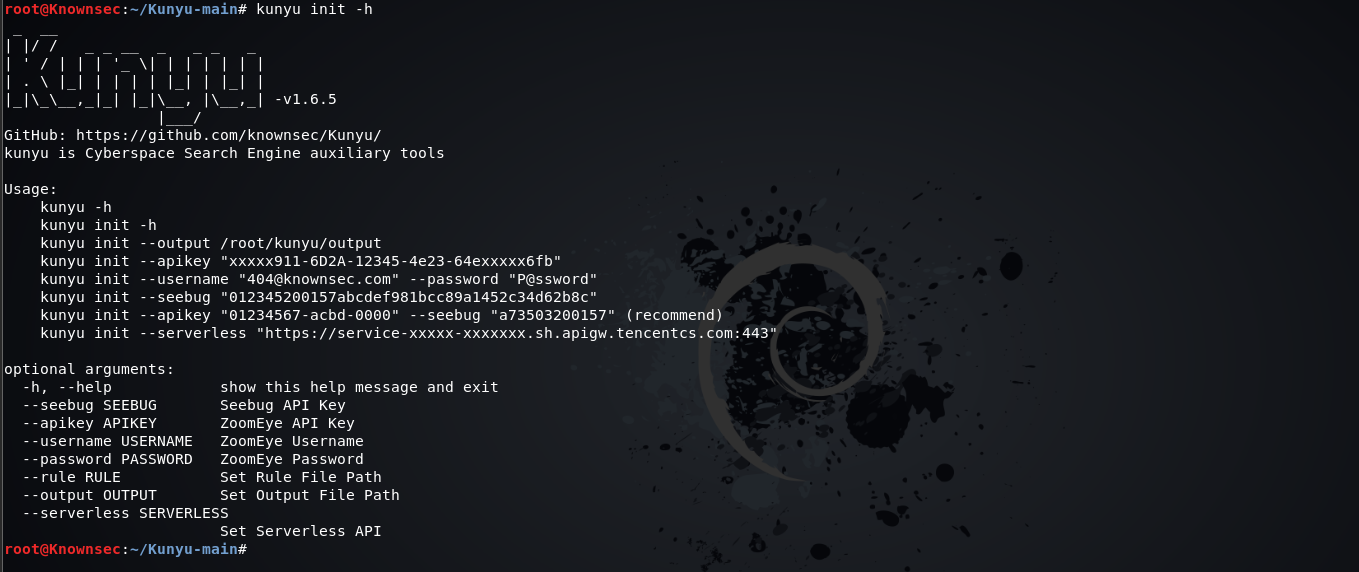
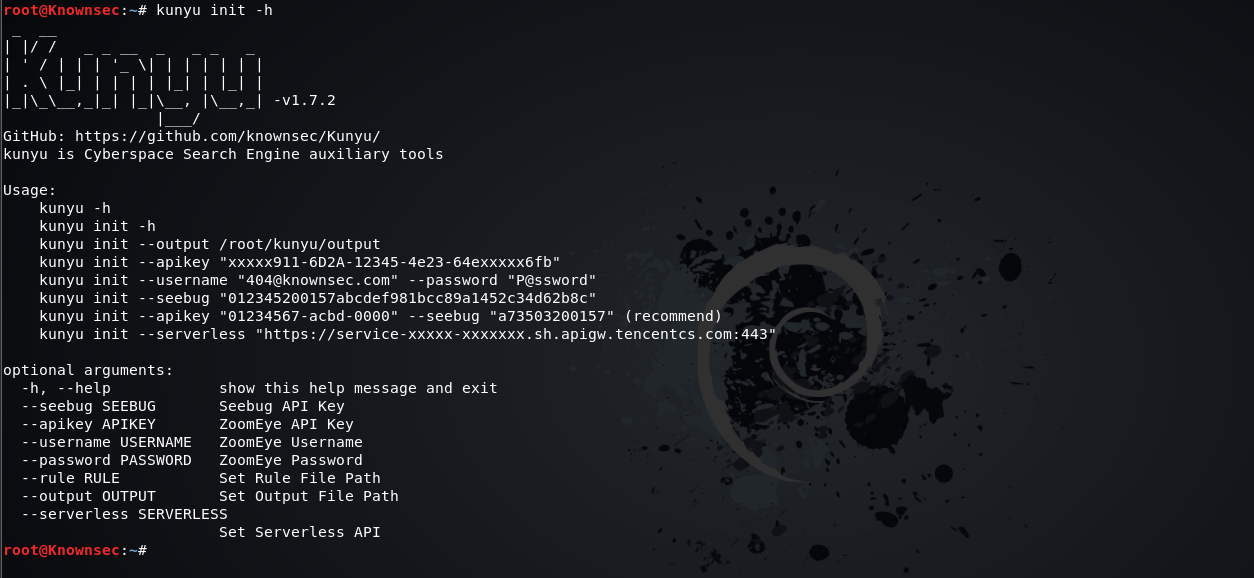
Kunyu Update Version 1.7.2

diff --git a/kunyu/core/zoomeye.py b/kunyu/core/zoomeye.py
@@ -199,6 +199,7 @@ class ZoomEye:
         Seebug <query>                            Search Seebug vulnerability information
         set <option>                              Set Global arguments values
         view/views <ID>                           Look over banner row data information
+        Cscan <IP>/<Port>                         Scans port information about cobaltStrike
         PupilSearch <URL>/<ID>                    Example Query sensitive interfaces and information
         Pocsuite3                                 Invoke the pocsuite component
         ExportPath                                Returns the path of the output file
@@ -210,7 +211,7 @@ class ZoomEye:
 
     # ZoomEye Command List
     Command_Info = ["help", "info", "set", "Seebug", "SearchWeb", "SearchHost", "SearchIcon", "HostCrash",
-                    "SearchBatch", "SearchCert", "SearchDomain", "EncodeHash", "Pocsuite3", "ExportPath",
+                    "SearchBatch", "SearchCert", "SearchDomain", "EncodeHash", "Pocsuite3", "ExportPath","Cscan",
                     "show", "clear", "view", "DirectoryCrash", "AliveScan","views", "PupilSearch", "CreateMap", "exit"]
 
     def __init__(self):
@@ -269,11 +270,6 @@ class ZoomEye:
                         except:
                             pass
 
-                        # Set the Latitude and longitude information
-                        if data.geoinfo.location:
-                            lat = data.geoinfo.location.lat
-                            lon = data.geoinfo.location.lon
-
                         # Set the output field
                         table.add_row(str(num), data.ip, str(data.portinfo.port), str(data.portinfo.service),
                                       str(data.portinfo.app), str(data_isp), str(data.geoinfo.country.names.en),
@@ -284,10 +280,14 @@ class ZoomEye:
                                        str(data.portinfo.app), str(data_isp), str(data.geoinfo.country.names.en),
                                        str(data.geoinfo.city.names.en), str(title), str(data.timestamp).split("T")[0]]
 
-                        # Set scatter_params info
-                        self.scatter_params.append({
-                            "lng": str(lon), "lat": str(lat), "ip": data.ip
-                        })
+                        # Set the Latitude and longitude information
+                        if data.geoinfo.location:
+                            lat = data.geoinfo.location.lat
+                            lon = data.geoinfo.location.lon
+                            # Set scatter_params info
+                            self.scatter_params.append({
+                                "lng": str(lon), "lat": str(lat), "ip": data.ip
+                            })
 
                         self.scan_alive_params.append({
                                 "ip":data.ip,
@@ -625,7 +625,6 @@ class ZoomEye:
         """
         Verify the current viability of the last retrieval result
         """
-        from kunyu.utils.convert import convert
         ip_port_params, num = cls.scan_alive_params, 0
         table = DisposeTables().result_table(ALIVE_SCAN_INFO ,overflow)
         logger.info("IP Service Viability Scan:")
@@ -634,7 +633,7 @@ class ZoomEye:
             for data in ip_port_params:
                 try:
                     num += 1
-                    alive_status = convert(Scan_Alive_Ip().scan_port_status(data["ip"], data["port"]))
+                    alive_status = cls.convert(Scan_Alive_Ip().scan_port_status(data["ip"], data["port"]))
                     table.add_row(
                         str(num), alive_status.ip, str(alive_status.port), str(alive_status.state)
                     )
@@ -642,3 +641,17 @@ class ZoomEye:
                     continue
         logger.info("IP Service Viability Scan is completed\n")
 
+    @classmethod
+    def command_cscan(cls, args):
+        try:
+            # Check whether a parameter exists
+            if args == "":
+                raise ArithmeticError
+            # Get args ip and search
+            ip, _, port = args.strip().partition(" ")
+            logger.info("Cscan scan results:")
+            scan_result = Scan_Alive_Ip().scan_cobaltstrike_status(ip, port)
+            console.print(scan_result)
+            logger.info("Cobaltstrike Scan is completed\n")
+        except ArithmeticError:
+            return logger.warning("Please Input IP and Port")

diff --git a/kunyu/core/scanalive.py b/kunyu/core/scanalive.py
@@ -6,6 +6,7 @@
 @File: scanalive.py
 @Time: 2022/2/24 10:47
 """
+import os
 
 import nmap
 
@@ -21,3 +22,9 @@ class Scan_Alive_Ip:
                 for port in nm[host][proto].keys():
                     self.alive_data_params = {"ip": ip, "port":port, "state":nm[host][proto][port]['state']}
         return self.alive_data_params
+
+    def scan_cobaltstrike_status(self, ip, port):
+        nm = nmap.PortScanner()
+        nse_path = str(os.path.abspath(os.path.dirname(os.path.dirname(__file__))) + "/lib/grab_beacon_config").replace("\\","/")
+        result = nm.scan(ip, port, "--script={}".format(nse_path))
+        return result

diff --git a/kunyu/config/__version__.py b/kunyu/config/__version__.py
@@ -15,7 +15,7 @@ __license__ = 'GPL-2.0'
 __python_version__ = sys.version.split()[0]
 __platform__ = platform.platform()
 __url__ = "https://github.com/knownsec/Kunyu"
-__version__ = '1.7.1'
+__version__ = '1.7.2'
 __author__ = '风起'
 __Team__ = 'KnownSec 404 Team'
 __author_email__ = 'onlyzaliks@gmail.com'

diff --git a/README.md b/README.md
@@ -95,6 +95,7 @@ Global commands:
         Seebug <query>                            Search Seebug vulnerability information
         set <option>                              Set Global arguments values
         view/views <ID>                           Look over banner row data information
+        Cscan <IP>/<Port>                 		  Scans port information about cobaltStrike
         PupilSearch <URL>/<ID>                    Example Query sensitive interfaces
         Pocsuite3                                 Invoke the pocsuite component
         ExportPath                                Returns the path of the output file
@@ -118,7 +119,7 @@ ZoomEye:
 	deep   					  Set PupilSearch Search Deep(default is 2)
 	all  					  PupilSearch Add All Url To Check List
 	fuzz   					  PupilSearch Add Api To Check List
-    	proxy  					  PupilSearch HTTP Proxy
+    proxy  					  PupilSearch HTTP Proxy
 	
 ```
 
@@ -201,6 +202,18 @@ The user can also view the SSL certificate information of the specified serial n
 Command format: **views ID**
 
 ![](./images/views.png)
+
+**Cscan Scans port information about cobaltStrike**
+
+Cscan, a new feature in Kunyu version 1.7.2, allows you to use this command to identify whether a network asset is cobaltStrike and to enumerate configuration file details.
+
+**Command format:**
+
+Cscan 1.1.1.1 443
+
+Cscan 1.1.1.1 443,80
+
+![](./images/cscan.png)
 
 **PupilSearch Sensitive Information Collection**
 

diff --git a/doc/README_CN.md b/doc/README_CN.md
@@ -96,6 +96,7 @@ Global commands:
         Seebug <query>                            Search Seebug vulnerability information
         set <option>                              Set Global arguments values
         view/views <ID>                           Look over banner row data information
+        Cscan <IP>/<Port>                 		  Scans port information about cobaltStrike
         PupilSearch <URL>/<ID>                    Example Query sensitive interfaces
         Pocsuite3                                 Invoke the pocsuite component
         ExportPath                                Returns the path of the output file
@@ -201,6 +202,18 @@ SearchIcon /root/favicon.ico
 命令格式：**views ID**
 
 ![](../images/views.png)
+
+**Cscan扫描cobaltStrike的端口信息**  
+
+Cscan是Kunyu 1.7.2版本的一个新特性，允许您使用此命令来识别网络资产是否为cobaltStrike，并列举配置文件的详细信息。  
+
+**命令格式:**
+
+Cscan 1.1.1.1 443  
+
+Cscan 1.1.1.1 443, 80  
+
+![](../images/cscan.png)
 
 **PupilSearch敏感信息收集**
 
